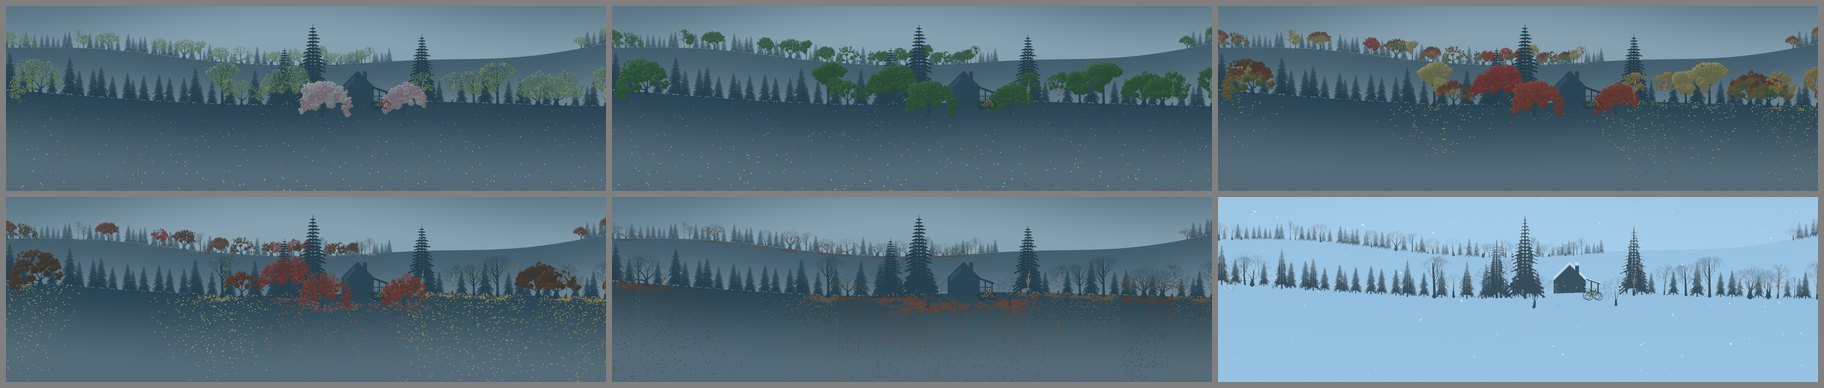
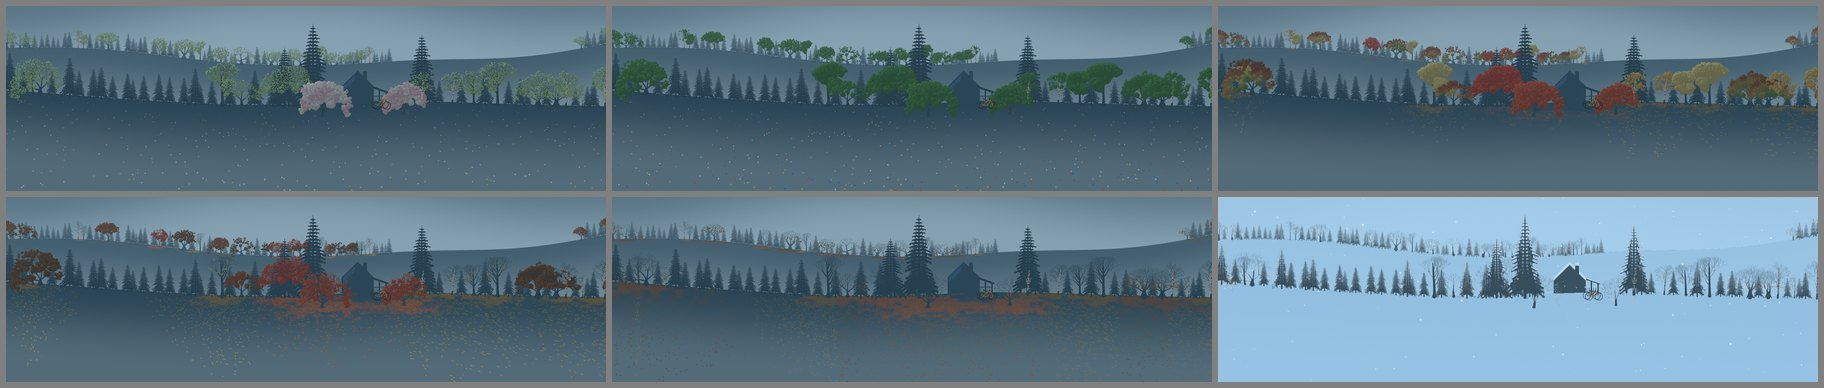
Cloud base above the crowns, leaves in the ground's light, a lit meadow
The sea's base now hangs just above the leafy crowns, rising and dipping
along the hill, so only the tall spruces by the cabin fade up into it.
It frays into soft tongues over the hills beyond, behind the cabin's
hill, which lie a little deeper in its grey shade.

Under the sea the cabin's meadow takes the clouds' soft light: it lifts
toward their shaded grey, most at its far edge, while the cabin and the
spruces stay dark against it.

Fallen leaves take the light of the ground they lie on: a wash of each
tree's color under its crown, and round leaves a little brighter than the
floor, sized by perspective on the near meadow. Fresh leaves are vivid and
brown to dull by winter; fewer blow out over the meadow.

Ported to the Windows renderer; parity holds. Previews regenerated.

diff --git a/Sources/wallframes/Scene.swift b/Sources/wallframes/Scene.swift
@@ -651,8 +651,9 @@ struct Scene {
         // moon's at night. Far off, the lumps grow too small to see and it fades
         // into haze. Cloudy days break it open: through wide gaps the world
         // below shows. Seen from the cabin's hill it's a layer: its lumpy, soft
-        // base hangs at the height of the tall spruces' tops, which fade up into
-        // it; under it, the hills beyond lie in its grey shade.
+        // base hangs just above the leafy crowns, so only the tall spruces' tops
+        // fade up into it, and frays into tongues over the hills beyond, which
+        // lie in its grey shade; the cabin's hill takes its soft light.
         let seaLit = mixOklab(pal.horizon, pal.glow, 0.5) * 1.3
         let seaShade = mixOklab(pal.mid, pal.horizon, 0.5) * 0.75
         let seaHazeColor = mixOklab(pal.horizon, seaLit, 0.4)
@@ -671,10 +672,18 @@ struct Scene {
             let open = -0.45 + 0.9 * w.broken  // the noise below this is a gap
             return smoothstep(open - 0.06, open + 0.06, fbm2(u * 0.12, z * 0.12, octaves: 3, seed: seaSeed ^ 0x85ebca6b))
         }
-        let seaEdge: [Float] = w.sea > 0 ? (0..<width).map { x in  // its base, over the hill
-            ground[(Self.layers.count - 1) * width + x] - 0.06 * h
-                + 0.012 * h * abs(fbm(Float(x) / h * 9 + drift * 3, octaves: 3, seed: seaSeed ^ 0x5bd1e995))
+        let seaEdge: [Float] = w.sea > 0 ? (0..<width).map { x in
+            // Its base, over the hill: lumpy, rising and dipping along it, and
+            // always above the leafy crowns (the tallest reach 0.053 of the
+            // height), so only the tall spruces' tops go up into it.
+            let swell = clamp01(0.5 + 0.6 * fbm(Float(x) / h * 1.6 + drift, octaves: 2, seed: seaSeed ^ 0x1b873593))
+            return ground[(Self.layers.count - 1) * width + x] - (0.07 + 0.028 * swell) * h
+                - 0.012 * h * abs(fbm(Float(x) / h * 9 + drift * 3, octaves: 3, seed: seaSeed ^ 0x5bd1e995))
         } : []
+        let seaBase = w.sea * clamp01(1 - 2 * w.broken)  // how solid its base is: overcast, not broken
+        // The bright sea lights the cabin's hill softly from all round: the
+        // meadow lifts toward the clouds' shaded grey, most at its far edge.
+        let seaLift = 0.3 * w.sea
         var seaLight = [Float](repeating: 0, count: width * seaRows)
         var seaDepth = [Float](repeating: 0, count: width * seaRows)  // how far off, for haze and gaps
         var seaCover = [Float](repeating: 0, count: width * seaRows)
@@ -849,7 +858,7 @@ struct Scene {
         // the trees let them go, browning through winter, until snow covers
         // them or spring's grass grows over them.
         let carpetGain = (season.year > 0.75 ? 1 : 1 - smoothstep(0.18, 0.30, season.year)) * (1 - groundSnow)
-        let carpetBrown = season.year > 0.75 ? 0.6 * smoothstep(0.86, 1, season.year) : 0.6 + 0.3 * smoothstep(0, 0.2, season.year)
+        let carpetBrown = season.year > 0.75 ? 0.3 + 0.3 * smoothstep(0.86, 1, season.year) : 0.6 + 0.3 * smoothstep(0, 0.2, season.year)
         let carpetCell = (0..<layerCount).map { max(Int((0.0016 * H * Self.layers[$0].trees / Self.layers[near].trees).rounded()), 1) }
         let overNear = nearOverlay
 
@@ -932,6 +941,13 @@ struct Scene {
 
                     var frontTree: Float = 0  // how much of this pixel is tree or porch, in front
                     for l in 0..<layerCount {
+                        if l == near && seaBase > 0 && fy > seaEdge[x] && fy < seaEdge[x] + 0.04 * H {
+                            // The base frays: soft tongues of cloud hang lower here and
+                            // there, in front of the hills beyond, behind the cabin's hill.
+                            let n = fbm2(fx / (0.12 * H) + drift * 2, fy / (0.02 * H), octaves: 3, seed: seaSeed ^ 0x9e3779b9)
+                            let reach = 0.04 * H * clamp01(1.6 * n)
+                            if reach > 0 { c = mix(c, seaHazeColor, 0.8 * seaBase * smoothstep(seaEdge[x] + reach, seaEdge[x], fy)) }
+                        }
                         if l == bowLayer && bowGain > 0 {
                             // Rainbow light, added: violet inside, red outside; the
                             // second bow beyond, colors reversed; brighter sky inside
@@ -966,6 +982,9 @@ struct Scene {
                         let layer = Self.layers[l]
                         let gy = ground[l * width + x]
                         var tone = mix(tones[l], fog, layer.mist * smoothstep(0, mistDepth, fy - gy))
+                        if l == near && seaLift > 0 && tree < 1 && fy >= gy {
+                            tone = mixOklab(tone, seaShade, seaLift * (0.8 + 0.2 * smoothstep(gy + 0.1 * H, gy, fy)) * (1 - tree))
+                        }
                         if tree > 0 { tone = tone * (1 - 0.18 * (1 - layer.haze) * tree) }  // spruce darker than meadow
                         if birch && spruceCov > 0 {
                             // Birch bark: paper white, lit on its left, with dark lenticels across it.
@@ -987,29 +1006,54 @@ struct Scene {
                             // Fallen leaves: a flat, ragged pool around each trunk,
                             // a leaf to each small cell, the floor tinted between;
                             // on the near meadow a few blown far out from it.
-                            var amount: Float = 0, species = 0
+                            var (amount, pool, species): (Float, Float, Int) = (0, 0, 0)  // pool: under a crown, not blown out
                             let ragged = 0.75 + 0.5 * valueNoise2(fx / (0.01 * H), fy / (0.004 * H), 0x4b1d)
                             for k in 0..<4 {
                                 let i = Int(litterBy[(l * width + x) * 4 + k])
                                 guard i >= 0 else { continue }
                                 let t = leafy[i]
                                 let gone = (season.year > 0.75 ? leafFall(season, species: t.species) : 1) * carpetGain
-                                let (u, v) = ((fx - t.x) / (1.5 * t.rx * ragged), (fy - t.base) / ((l == near ? 0.3 : 0.15) * t.rx * ragged))
+                                let (u, v) = ((fx - t.x) / (1.5 * t.rx * ragged), (fy - t.base) / ((l == near ? 0.4 : 0.15) * t.rx * ragged))
                                 var a = gone * expf(-(u * u + v * v))
+                                pool = max(pool, a)
                                 if l == near && fy > t.base {
-                                    a = max(a, 0.18 * gone * expf(-abs(u) / 3 - (fy - t.base) / (0.06 * H))
+                                    a = max(a, 0.15 * gone * expf(-abs(u) / 3 - (fy - t.base) / (0.05 * H))
                                         * smoothstep(5.5, 3.5, abs(fx - t.x) / t.rx))
                                 }
                                 if a > amount { (amount, species) = (a, t.species) }
                             }
                             if amount > 0.01 {
-                                let cs = carpetCell[l]
-                                let h1 = hash32(UInt32(x / cs) &* 0x9e3779b1 ^ UInt32(y * 5 / (3 * cs)) &* 0x85ebca6b ^ 0x1ea7)
+                                // Leaves lie in the light the ground has: a little brighter
+                                // than it, in their own colors. Under the tree they tint the
+                                // floor between them; on the near meadow they're cells seen
+                                // in perspective, bigger and rounder nearer.
+                                let cs = Float(carpetCell[l])
+                                var (cu, cv, px) = (fx / cs, fy / (0.6 * cs), 1 / cs)
+                                if l == near {
+                                    let (d0, d) = (gy - horizonY, fy - horizonY)
+                                    (cu, cv, px) = ((fx - w2) * d0 / (d * cs), d0 * d0 / (0.6 * cs * d), d0 / (d * cs))
+                                }
+                                let (iu, iv) = (floorf(cu), floorf(cv))
+                                let h1 = hash32(UInt32(bitPattern: Int32(iu)) &* 0x9e3779b1 ^ UInt32(bitPattern: Int32(iv)) &* 0x85ebca6b ^ 0x1ea7)
                                 let path = leafPaths[species]
-                                var leaf = mixOklab(RGB(hex: path[path.count - 1 - Int(h1 >> 8) % 2]), RGB(hex: 0x6a4a32), carpetBrown)
-                                leaf = leaf * (0.8 + 0.4 * unit(h1 >> 3))
-                                let k = unit(h1) < amount * 1.3 ? 1 : 0.5 * amount * amount
-                                tone = mix(tone, inLayer(leaf, l, tone), k * (1 - tree))
+                                let fresh = RGB(hex: path[path.count - 1 - Int(h1 >> 8) % 2])
+                                // A few leaves from a whole crown already cover a lot of floor;
+                                // fresh ones are brighter and more colorful than the matted
+                                // brown of winter.
+                                let freshness = 1 - carpetBrown
+                                let floor = tone, floorLum = max(luminance(tone), 1e-5)
+                                func onGround(_ c: RGB, _ k: Float) -> RGB {
+                                    mixOklab(floor, c * min(k * floorLum / max(luminance(c), 1e-5), lightLevel), 0.55 + 0.35 * freshness)
+                                }
+                                let wash = onGround(mixOklab(RGB(hex: path[path.count - 2]), RGB(hex: 0x6a4a32), max(carpetBrown, 0.4)), 1.2 + 0.7 * freshness)
+                                tone = mix(tone, wash, 0.7 * (1 - expf(-4 * pool)) * (1 - tree))
+                                if unit(h1) < 1 - expf(-4 * amount) {
+                                    let (lu, lv) = (cu - iu - 0.35 - 0.3 * unit(h1 >> 4), cv - iv - 0.35 - 0.3 * unit(h1 >> 12))
+                                    let inside = clamp01((0.34 - (lu * lu + lv * lv).squareRoot()) / px + 0.5)
+                                    let brown = clamp01(carpetBrown + 0.35 * (unit(h1 >> 20) - 0.3))
+                                    let leaf = onGround(mixOklab(fresh, RGB(hex: 0x6a4a32), brown), 1.4 + 1.2 * freshness + (0.6 + 0.6 * freshness) * unit(h1 >> 3))
+                                    tone = mix(tone, leaf, inside * (1 - tree))
+                                }
                             }
                         }
                         if groundSnow > 0 && tree > 0.3 {
@@ -1063,10 +1107,10 @@ struct Scene {
                         tone = tone + pal.glow * (g * layer.haze * 0.8)   // in-scattered sun
                         if seaRows > 0 && l >= 2 {
                             if l < layerCount - 1 {
-                                tone = mix(tone, seaShade * 0.6, 0.3 * w.sea)  // the hills beyond, in the clouds' shade
+                                tone = mix(tone, seaShade * 0.5, 0.45 * w.sea)  // the hills beyond, in the clouds' shade
                             } else if fy < gy {
-                                // Treetops fade up into the clouds' base.
-                                tone = mix(tone, seaHazeColor, 0.6 * w.sea * clamp01(1 - 2 * w.broken) * smoothstep(seaEdge[x] + 0.035 * H, seaEdge[x], fy))
+                                // The tall spruces' tops fade up into the clouds' base.
+                                tone = mix(tone, seaHazeColor, 0.6 * seaBase * smoothstep(seaEdge[x] + 0.015 * H, seaEdge[x], fy))
                             }
                         }
                         c = cov == 1 ? tone : mix(c, tone, cov)

diff --git a/windows/src/Scene.cs b/windows/src/Scene.cs
@@ -870,8 +870,9 @@ sealed class Scene
         // moon's at night. Far off, the lumps grow too small to see and it fades
         // into haze. Cloudy days break it open: through wide gaps the world
         // below shows. Seen from the cabin's hill it's a layer: its lumpy, soft
-        // base hangs at the height of the tall spruces' tops, which fade up into
-        // it; under it, the hills beyond lie in its grey shade.
+        // base hangs just above the leafy crowns, so only the tall spruces' tops
+        // fade up into it, and frays into tongues over the hills beyond, which
+        // lie in its grey shade; the cabin's hill takes its soft light.
         RGB seaLit = Col.MixOklab(pal.Horizon, pal.Glow, 0.5f) * 1.3f;
         RGB seaShade = Col.MixOklab(pal.Mid, pal.Horizon, 0.5f) * 0.75f;
         RGB seaHazeColor = Col.MixOklab(pal.Horizon, seaLit, 0.4f);
@@ -891,10 +892,20 @@ sealed class Scene
             float open = -0.45f + 0.9f * w.Broken;  // the noise below this is a gap
             return Col.Smoothstep(open - 0.06f, open + 0.06f, Col.Fbm2(su * 0.12f, sz * 0.12f, 3, seaSeed ^ 0x85ebca6b));
         };
-        var seaEdge = new float[w.Sea > 0 ? width : 0];  // its base, over the hill
+        var seaEdge = new float[w.Sea > 0 ? width : 0];
         for (int x = 0; x < seaEdge.Length; x++)
-            seaEdge[x] = ground[(Layers.Length - 1) * width + x] - 0.06f * H
-                + 0.012f * H * Math.Abs(Col.Fbm(x / H * 9 + drift * 3, 3, seaSeed ^ 0x5bd1e995));
+        {
+            // Its base, over the hill: lumpy, rising and dipping along it, and
+            // always above the leafy crowns (the tallest reach 0.053 of the
+            // height), so only the tall spruces' tops go up into it.
+            float swell = Col.Clamp01(0.5f + 0.6f * Col.Fbm(x / H * 1.6f + drift, 2, seaSeed ^ 0x1b873593));
+            seaEdge[x] = ground[(Layers.Length - 1) * width + x] - (0.07f + 0.028f * swell) * H
+                - 0.012f * H * Math.Abs(Col.Fbm(x / H * 9 + drift * 3, 3, seaSeed ^ 0x5bd1e995));
+        }
+        float seaBase = w.Sea * Col.Clamp01(1 - 2 * w.Broken);  // how solid its base is: overcast, not broken
+        // The bright sea lights the cabin's hill softly from all round: the
+        // meadow lifts toward the clouds' shaded grey, most at its far edge.
+        float seaLift = 0.3f * w.Sea;
         var seaLight = new float[width * seaRows];
         var seaDepth = new float[width * seaRows];  // how far off, for haze and gaps
         var seaCover = new float[width * seaRows];
@@ -1089,7 +1100,7 @@ sealed class Scene
         // the trees let them go, browning through winter, until snow covers
         // them or spring's grass grows over them.
         float carpetGain = (season.Year > 0.75f ? 1 : 1 - Col.Smoothstep(0.18f, 0.30f, season.Year)) * (1 - groundSnow);
-        float carpetBrown = season.Year > 0.75f ? 0.6f * Col.Smoothstep(0.86f, 1, season.Year) : 0.6f + 0.3f * Col.Smoothstep(0, 0.2f, season.Year);
+        float carpetBrown = season.Year > 0.75f ? 0.3f + 0.3f * Col.Smoothstep(0.86f, 1, season.Year) : 0.6f + 0.3f * Col.Smoothstep(0, 0.2f, season.Year);
         var carpetCell = new int[Layers.Length];
         for (int l = 0; l < Layers.Length; l++)
             carpetCell[l] = Math.Max((int)Math.Round(0.0016f * H * Layers[l].Trees / Layers[near].Trees, MidpointRounding.AwayFromZero), 1);
@@ -1184,6 +1195,14 @@ sealed class Scene
                 float frontTree = 0;  // how much of this pixel is tree or porch, in front
                 for (int l = 0; l < Layers.Length; l++)
                 {
+                    if (l == near && seaBase > 0 && fy > seaEdge[x] && fy < seaEdge[x] + 0.04f * H)
+                    {
+                        // The base frays: soft tongues of cloud hang lower here and
+                        // there, in front of the hills beyond, behind the cabin's hill.
+                        float n = Col.Fbm2(fx / (0.12f * H) + drift * 2, fy / (0.02f * H), 3, seaSeed ^ 0x9e3779b9);
+                        float reach = 0.04f * H * Col.Clamp01(1.6f * n);
+                        if (reach > 0) c = Col.Mix(c, seaHazeColor, 0.8f * seaBase * Col.Smoothstep(seaEdge[x] + reach, seaEdge[x], fy));
+                    }
                     if (l == bowLayer && bowGain > 0)
                     {
                         // Rainbow light, added: violet inside, red outside; the
@@ -1224,6 +1243,8 @@ sealed class Scene
                     Layer layer = Layers[l];
                     float gy = ground[l * width + x];
                     RGB tone = Col.Mix(tones[l], fog, layer.Mist * Col.Smoothstep(0, mistDepth, fy - gy));
+                    if (l == near && seaLift > 0 && tree < 1 && fy >= gy)
+                        tone = Col.MixOklab(tone, seaShade, seaLift * (0.8f + 0.2f * Col.Smoothstep(gy + 0.1f * H, gy, fy)) * (1 - tree));
                     if (tree > 0) tone = tone * (1 - 0.18f * (1 - layer.Haze) * tree);  // spruce darker than meadow
                     if (birch && spruceCov > 0)
                     {
@@ -1250,7 +1271,7 @@ sealed class Scene
                         // Fallen leaves: a flat, ragged pool around each trunk,
                         // a leaf to each small cell, the floor tinted between;
                         // on the near meadow a few blown far out from it.
-                        float amount = 0;
+                        float amount = 0, pool = 0;  // pool: under a crown, not blown out
                         int species = 0;
                         float ragged = 0.75f + 0.5f * Col.ValueNoise2(fx / (0.01f * H), fy / (0.004f * H), 0x4b1d);
                         for (int q = 0; q < 4; q++)
@@ -1259,24 +1280,53 @@ sealed class Scene
                             if (ti < 0) continue;
                             Leafy lt = leafy[ti];
                             float gone = (season.Year > 0.75f ? Leaves.Fall(season, lt.Species) : 1) * carpetGain;
-                            float lu = (fx - lt.X) / (1.5f * lt.Rx * ragged), lv = (fy - lt.Base) / ((l == near ? 0.3f : 0.15f) * lt.Rx * ragged);
+                            float lu = (fx - lt.X) / (1.5f * lt.Rx * ragged), lv = (fy - lt.Base) / ((l == near ? 0.4f : 0.15f) * lt.Rx * ragged);
                             float la = gone * Col.Exp(-(lu * lu + lv * lv));
+                            pool = Math.Max(pool, la);
                             if (l == near && fy > lt.Base)
                             {
-                                la = Math.Max(la, 0.18f * gone * Col.Exp(-Math.Abs(lu) / 3 - (fy - lt.Base) / (0.06f * H))
+                                la = Math.Max(la, 0.15f * gone * Col.Exp(-Math.Abs(lu) / 3 - (fy - lt.Base) / (0.05f * H))
                                     * Col.Smoothstep(5.5f, 3.5f, Math.Abs(fx - lt.X) / lt.Rx));
                             }
                             if (la > amount) { amount = la; species = lt.Species; }
                         }
                         if (amount > 0.01f)
                         {
-                            int cs = carpetCell[l];
-                            uint h1 = Col.Hash32(unchecked((uint)(x / cs) * 0x9e3779b1 ^ (uint)(y * 5 / (3 * cs)) * 0x85ebca6b ^ 0x1ea7));
+                            // Leaves lie in the light the ground has: a little brighter
+                            // than it, in their own colors. Under the tree they tint the
+                            // floor between them; on the near meadow they're cells seen
+                            // in perspective, bigger and rounder nearer.
+                            float cs = carpetCell[l];
+                            float cu = fx / cs, cv = fy / (0.6f * cs), cpx = 1 / cs;
+                            if (l == near)
+                            {
+                                float d0 = gy - horizonY, dy0 = fy - horizonY;
+                                cu = (fx - w2) * d0 / (dy0 * cs);
+                                cv = d0 * d0 / (0.6f * cs * dy0);
+                                cpx = d0 / (dy0 * cs);
+                            }
+                            float iu = (float)Math.Floor(cu), iv = (float)Math.Floor(cv);
+                            uint h1 = Col.Hash32(unchecked((uint)(int)iu * 0x9e3779b1 ^ (uint)(int)iv * 0x85ebca6b ^ 0x1ea7));
                             uint[] lpath = Leaves.Paths[species];
-                            RGB fallen = Col.MixOklab(RGB.Hex(lpath[lpath.Length - 1 - (int)(h1 >> 8) % 2]), RGB.Hex(0x6a4a32), carpetBrown);
-                            fallen = fallen * (0.8f + 0.4f * Col.Unit(h1 >> 3));
-                            float lk = Col.Unit(h1) < amount * 1.3f ? 1 : 0.5f * amount * amount;
-                            tone = Col.Mix(tone, inTone(fallen, l, tone), lk * (1 - tree));
+                            RGB fresh = RGB.Hex(lpath[lpath.Length - 1 - (int)(h1 >> 8) % 2]);
+                            // A few leaves from a whole crown already cover a lot of floor;
+                            // fresh ones are brighter and more colorful than the matted
+                            // brown of winter.
+                            float freshness = 1 - carpetBrown;
+                            RGB floor = tone;
+                            float floorLum = Math.Max(Overlay.Luminance(tone), 1e-5f), carpetSat = 0.55f + 0.35f * freshness;
+                            RGB wash = OnGround(floor, floorLum, Col.MixOklab(RGB.Hex(lpath[lpath.Length - 2]), RGB.Hex(0x6a4a32), Math.Max(carpetBrown, 0.4f)),
+                                                1.2f + 0.7f * freshness, lightLevel, carpetSat);
+                            tone = Col.Mix(tone, wash, 0.7f * (1 - Col.Exp(-4 * pool)) * (1 - tree));
+                            if (Col.Unit(h1) < 1 - Col.Exp(-4 * amount))
+                            {
+                                float fu = cu - iu - 0.35f - 0.3f * Col.Unit(h1 >> 4), fv = cv - iv - 0.35f - 0.3f * Col.Unit(h1 >> 12);
+                                float inside = Col.Clamp01((0.34f - Col.Sqrt(fu * fu + fv * fv)) / cpx + 0.5f);
+                                float brown = Col.Clamp01(carpetBrown + 0.35f * (Col.Unit(h1 >> 20) - 0.3f));
+                                RGB fallen = OnGround(floor, floorLum, Col.MixOklab(fresh, RGB.Hex(0x6a4a32), brown),
+                                                      1.4f + 1.2f * freshness + (0.6f + 0.6f * freshness) * Col.Unit(h1 >> 3), lightLevel, carpetSat);
+                                tone = Col.Mix(tone, fallen, inside * (1 - tree));
+                            }
                         }
                     }
                     if (groundSnow > 0 && tree > 0.3f)
@@ -1341,10 +1391,10 @@ sealed class Scene
                     if (seaRows > 0 && l >= 2)
                     {
                         if (l < Layers.Length - 1)
-                            tone = Col.Mix(tone, seaShade * 0.6f, 0.3f * w.Sea);  // the hills beyond, in the clouds' shade
+                            tone = Col.Mix(tone, seaShade * 0.5f, 0.45f * w.Sea);  // the hills beyond, in the clouds' shade
                         else if (fy < gy)
-                            // Treetops fade up into the clouds' base.
-                            tone = Col.Mix(tone, seaHazeColor, 0.6f * w.Sea * Col.Clamp01(1 - 2 * w.Broken) * Col.Smoothstep(seaEdge[x] + 0.035f * H, seaEdge[x], fy));
+                            // The tall spruces' tops fade up into the clouds' base.
+                            tone = Col.Mix(tone, seaHazeColor, 0.6f * seaBase * Col.Smoothstep(seaEdge[x] + 0.015f * H, seaEdge[x], fy));
                     }
                     c = cov == 1 ? tone : Col.Mix(c, tone, cov);
                     frontTree = frontTree * (1 - cov) + tree;
@@ -1415,6 +1465,14 @@ sealed class Scene
         uint a = Col.Hash32(h), b = Col.Hash32(a ^ 0x68bc21eb);
         float s = Col.LinearToSrgb(shoulder) * 255 + Col.Unit(a) + Col.Unit(b) - 1;
         return (byte)Math.Min(Math.Max(Math.Round(s, MidpointRounding.AwayFromZero), 0), 255);
+    }
+
+    /// A fallen leaf's color on the floor: `k` times as bright as the floor,
+    /// in its own colors (no brighter than in full light), `sat` of the way
+    /// from the floor's.
+    static RGB OnGround(RGB floor, float floorLum, RGB c, float k, float lightLevel, float sat)
+    {
+        return Col.MixOklab(floor, c * Math.Min(k * floorLum / Math.Max(Overlay.Luminance(c), 1e-5f), lightLevel), sat);
     }
 
     /// How much of a unit disk another disk of radius `r` covers, its center

diff --git a/docs/NOTES.md b/docs/NOTES.md
@@ -72,14 +72,20 @@ In autumn the turning runs through the crown as a wave from the top down
 patches running ahead branch by branch; each leaf follows its species'
 colors, and the first to turn fall first, a few at a time all over the crown,
 some twigs holding on. Oak and beech keep low dead leaves until spring
-(marcescence). Fallen leaves lie in a flat ragged pool around each trunk,
-blow out over the near meadow, and brown through winter; spring grass covers
-them by mid-April. The summit's snow line is a cosine over the year, or,
-with a forecast, the day's median freezing level (summit 1000–3500 m, snow
-lying 200 m below it). Snow cover comes from the forecast's snow depth, and
-hoarfrost from temperatures below freezing before 11:00. Colors that come
-into the landscape are drawn 60% of the way from the layer's own tone,
-less on far layers, so they take its light and haze.
+(marcescence). Fallen leaves lie in a flat ragged pool around each trunk, a
+few blow out over the near meadow, and they brown through winter; spring
+grass covers them by mid-April. They take the floor's light: each leaf is
+about 1.5–3.3 times as bright as the floor under it, in its own colors (fresh
+ones brighter and more colorful than winter's matted brown), and under the
+crown a wash tints the floor between them, rising fast with the first leaves
+(1 − e^(−4·fallen)). On the near meadow the leaf cells are laid out in
+perspective, so leaves grow larger and rounder toward the bottom. The
+summit's snow line is a cosine over the year, or, with a forecast, the day's
+median freezing level (summit 1000–3500 m, snow lying 200 m below it). Snow
+cover comes from the forecast's snow depth, and hoarfrost from temperatures
+below freezing before 11:00. Colors that come into the landscape are drawn
+60% of the way from the layer's own tone, less on far layers, so they take
+its light and haze.
 
 **Life** (`Life.swift`). Each day's plan is drawn from the date's number:
 whether the two go out (one day in four; more on rainy days; always on a
@@ -118,9 +124,12 @@ isn't mirrored, and no cloud covers the sky:
   - each is lit from the sun's side (the moon's at night), and shading is
     blended between depth steps so they don't show;
   - far off, the lumps flatten and fade into haze;
-  - its soft, lumpy base hangs at the height of the tall spruces' tops, which
-    fade up into it; under it the hills beyond lie in grey shade, while the
-    cabin's hill stays in clear light.
+  - its soft, lumpy base rises and dips along the cabin's hill, always above
+    the leafy crowns (the tallest reach 0.053 of the screen height above the
+    ground), so only the tall spruces' tops fade up into it; it frays into
+    soft tongues over the hills beyond, which lie in grey shade under it;
+  - the cabin's hill takes the sea's soft light: its meadow lifts 30% toward
+    the clouds' shaded grey, while the cabin and the spruces stay dark.
 - **Cloudy** is the same sea, broken: noise over the cloud surface, looked
   up per pixel from its depth there, opens wide gaps that show the land
   beneath, so banks of cloud lie in the valleys.

diff --git a/README.md b/README.md
@@ -153,8 +153,8 @@ half a year on), or from the forecast where it says more:
   a time, until it's bare. Oak and beech keep their low dead leaves until
   spring. Two fruit trees by the cabin blossom white and pink in April and
   bear apples in late summer.
-- **The ground:** fallen leaves gather in pools under each tree and blow out
-  over the meadow, then brown through winter; flowers come in spring and
+- **The ground:** fallen leaves color the floor under each tree, a few blow
+  out over the meadow, and they brown through winter; flowers come in spring and
   summer, fireflies on warm midsummer nights; snow and morning frost lie where
   the forecast has them, on the branches and the roof too.
 
@@ -204,8 +204,9 @@ a year, and a bear shows in about 25 frames a year.
 Grey weather isn't mirrored back at you, and no cloud ever covers the sky;
 the scene shows what's beyond the weather:
 - **Overcast:** you're above it. A sunlit sea of clouds covers the world
-  below, its base at the tops of the tall spruces by the cabin, the summit
-  and far ridges rising out of it, and sun, moon and stars clear overhead.
+  below, its base just over the trees by the cabin (only the tall spruces
+  reach into it), fraying over the hills beyond; the summit and far ridges
+  rise out of it, and sun, moon and stars are clear overhead.
 - **Fog:** fog lakes lie low in the far valleys under a clear sky.
 - **Rain:** the moment after. A rainbow stands opposite the sun while it's
   low (from this view, at the far edge, with its faint second bow), in the
